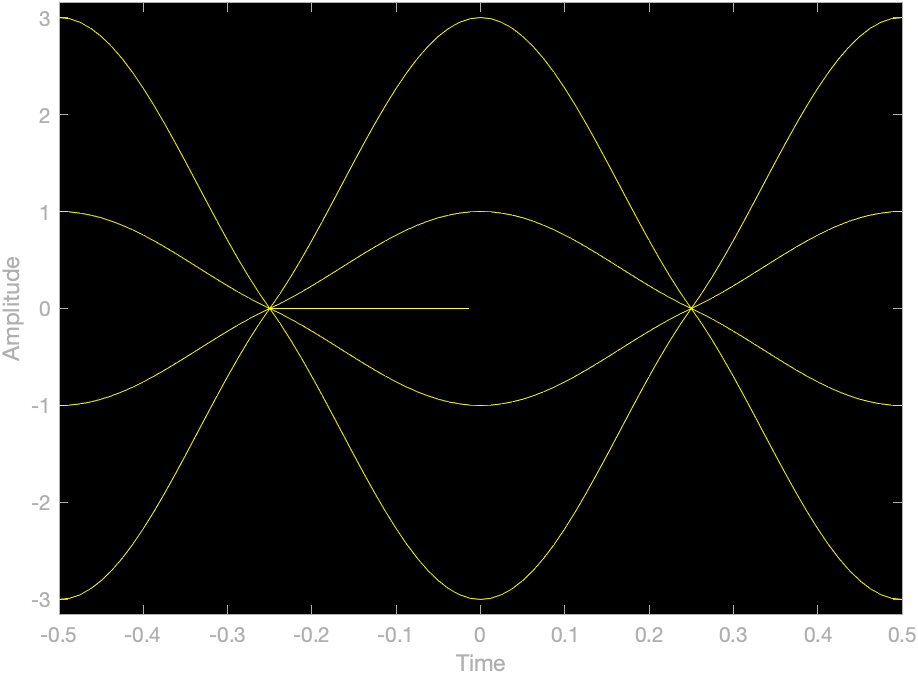
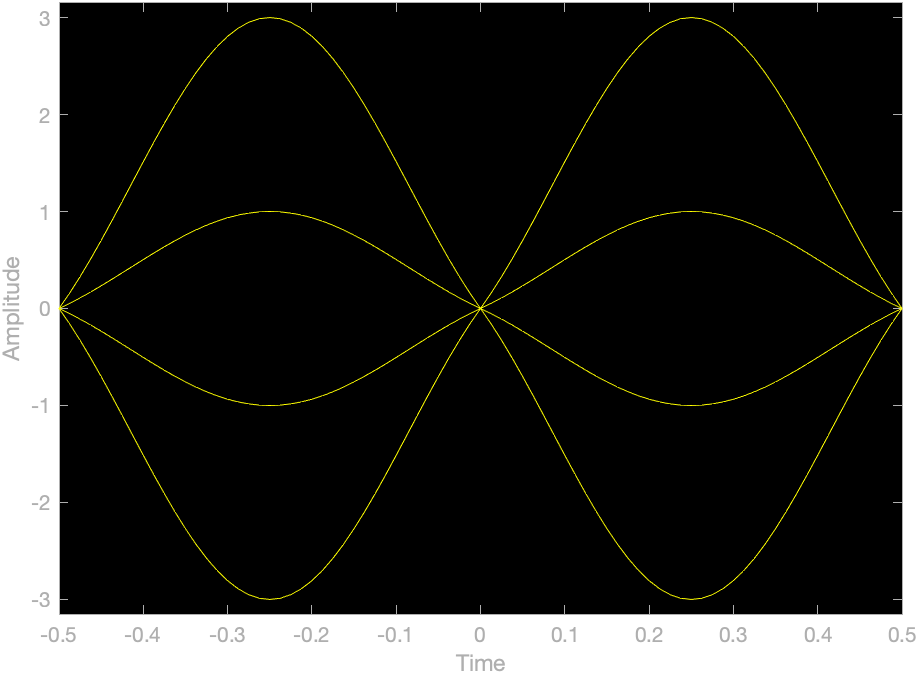
Added feeback based off presentation

diff --git a/QAM.m b/QAM.m
@@ -89,28 +89,30 @@ for p_idx = 1:2
         rx_bits = rx_bits(1:length(bb));
         ber(p_idx, snr_idx) = sum(bb ~= rx_bits) / length(bb);
 
-       % Step 5: Eye diagram for I-branch (first 50 symbols)
-if snr_idx == 1
-    bits50 = bb(1:200); % 50 symbols = 200 bits
-    symbols50 = reshape(bits50, 4, []).';
-    I_50 = qamTable(bi2de(symbols50(:,1:2), 'left-msb') + 1);
-    I_up50 = upsample(I_50, samples_per_symbol);
-    I_shaped50 = conv(I_up50, pulse, 'same');
+        % Eye diagram for snr_idx == 1 (shown as ∞ dB)
+        if snr_idx == 1
+            bits50 = bb(1:200); % 50 symbols = 200 bits
+            symbols50 = reshape(bits50, 4, []).';
+            I_50 = qamTable(bi2de(symbols50(:,1:2), 'left-msb') + 1);
+            I_up50 = upsample(I_50, samples_per_symbol);
 
-    % Don't assign to fig; eyediagram uses its own figure
-    eyediagram(I_shaped50, 2 * samples_per_symbol);
-    title(sprintf('Eye Diagram (%s pulse, SNR = %d dB)', pulse_names{p_idx}, snr_db));
-    drawnow;
+            % Zero-padding
+            pad_len = length(pulse) - 1;
+            I_up50_padded = [zeros(1, pad_len), I_up50, zeros(1, pad_len)];
+            I_shaped50_full = conv(I_up50_padded, pulse, 'full');
+            center_start = pad_len + 1;
+            center_end = center_start + length(I_up50) - 1;
+            I_shaped50 = I_shaped50_full(center_start:center_end);
 
-    % Use gcf + exportgraphics for reliability
-    exportgraphics(gcf, sprintf('eye_%s_snr%d.png', lower(pulse_names{p_idx}), snr_db));
+            % Eye diagram
+            eyediagram(I_shaped50, 2 * samples_per_symbol);
+            title(sprintf('Eye Diagram (%s pulse, SNR = ∞ dB)', pulse_names{p_idx}));
+            drawnow;
+            exportgraphics(gcf, sprintf('eye_%s_snrInf.png', lower(pulse_names{p_idx})));
+            close(gcf);
+        end
 
-    % Close the current figure properly
-    close(gcf);
-end
-
-
-        % Step 6: Constellation diagram (first 250 symbols)
+        % Constellation diagram
         if snr_db < 10
             fig = figure;
             scatter(I_samples(1:min(250,end)), Q_samples(1:min(250,end)), 'filled');
@@ -121,6 +123,47 @@ end
             close(fig);
         end
     end
+end
+
+%% Step 6.5: Constellation Plot for SNR = ∞ dB (no noise)
+for p_idx = 1:2
+    pulse = pulse_shapes{p_idx};
+    pulse_energy = sum(pulse.^2);
+
+    % Pulse shaping
+    I_upsampled = upsample(I, samples_per_symbol);
+    Q_upsampled = upsample(Q, samples_per_symbol);
+    I_shaped = conv(I_upsampled, pulse, 'same');
+    Q_shaped = conv(Q_upsampled, pulse, 'same');
+
+    % Carrier modulation
+    t = (0:length(I_shaped)-1) * Ts;
+    tx_signal = I_shaped .* cos(2*pi*fc*t) - Q_shaped .* sin(2*pi*fc*t);
+
+    % No noise
+    rx_signal = tx_signal;
+
+    % Down-conversion
+    I_rx = rx_signal .* cos(2*pi*fc*t);
+    Q_rx = -rx_signal .* sin(2*pi*fc*t);
+
+    % Matched filter
+    I_filtered = conv(I_rx, fliplr(pulse), 'same');
+    Q_filtered = conv(Q_rx, fliplr(pulse), 'same');
+
+    % Sample
+    sample_indices = samples_per_symbol:samples_per_symbol:length(I_filtered);
+    I_samples = I_filtered(sample_indices);
+    Q_samples = Q_filtered(sample_indices);
+
+    % Plot constellation
+    fig = figure;
+    scatter(I_samples(1:min(250,end)), Q_samples(1:min(250,end)), 'filled');
+    title(sprintf('Constellation (%s pulse, SNR = ∞ dB)', pulse_names{p_idx}));
+    xlabel('I'); ylabel('Q'); axis equal; grid on;
+    drawnow; pause(0.1);
+    saveas(fig, sprintf('constellation_%s_snrInf.jpg', lower(pulse_names{p_idx})));
+    close(fig);
 end
 
 %% Step 7: BER Plot
